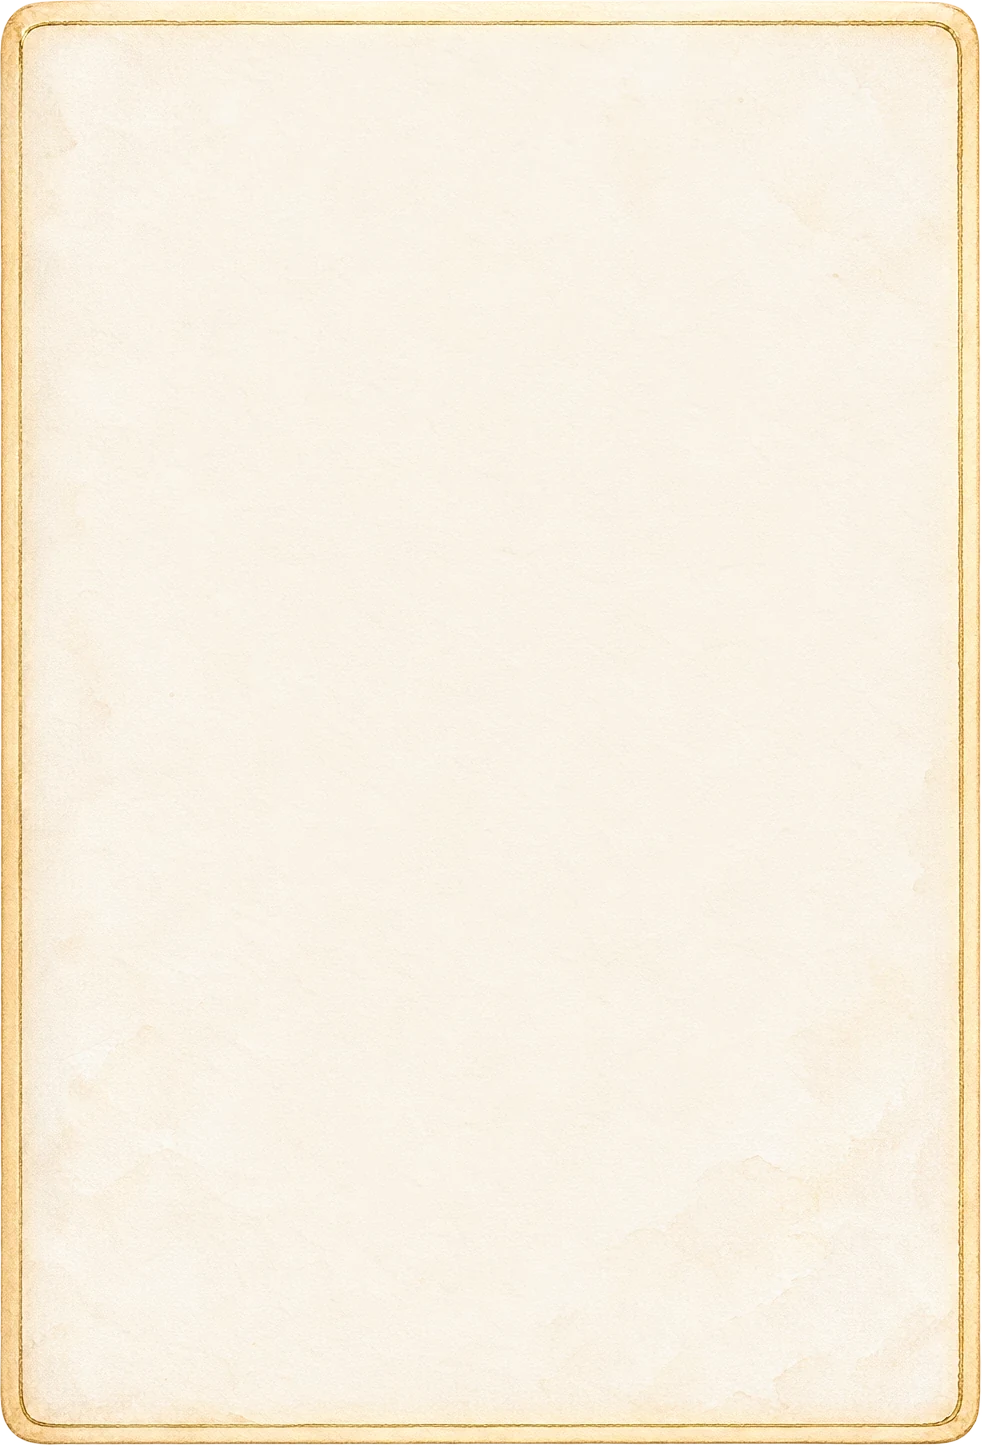
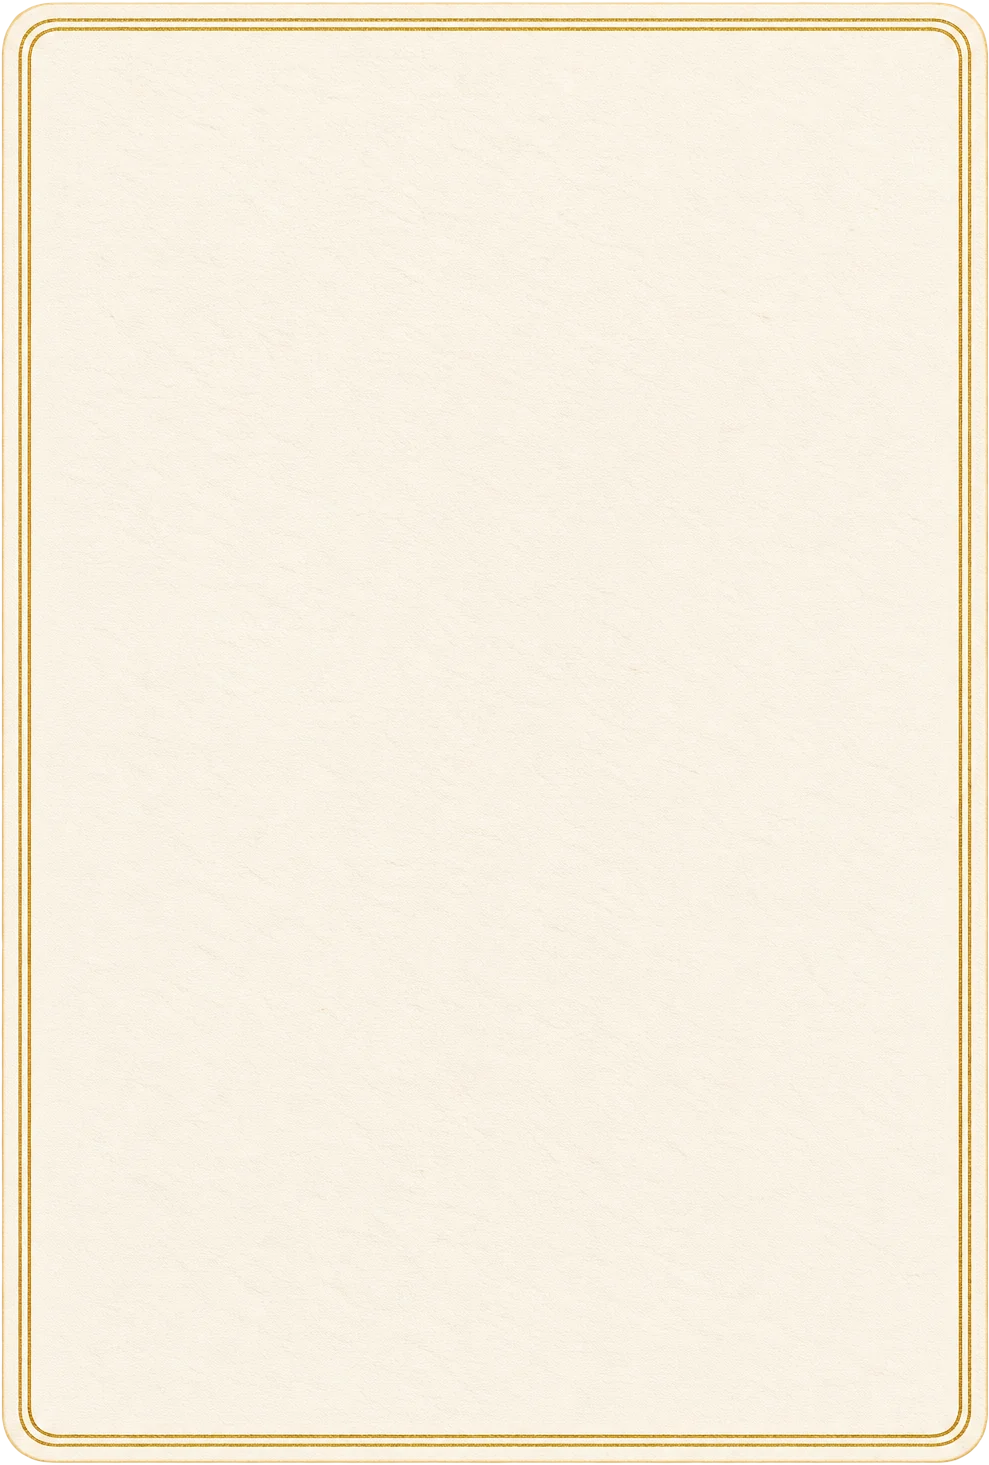
Passport: the light v2 art, a cover that covers, a blot clear of the rule
- cover.webp, cover-inside.webp and spread.webp are the regenerated light
  art. The inside of the cover is cover-inside.webp (its sprig lands on the
  outer bottom corner when the cover lies open); spread.webp is back as the
  frame around the pages (board, stacks, headbands), re-measured; pages are
  still the shared paper.webp sheet on top.
- The cover overhangs the right page at the top, bottom and fore-edge, so
  nothing of the page beneath shows while it is closed; where it lies once
  open, the inside-cover page sits on the same box.
- The blot is a little smaller and higher on the cover, with clear space
  above the bottom rule; the title moves up to match.
- A wash of cream over paper.webp keeps its grain fine at desktop size.

Changed region(s): [[0.0, 0.0, 1.0, 1.0]]

diff --git a/src/components/sections/passport/BrasiliaPassport.tsx b/src/components/sections/passport/BrasiliaPassport.tsx
@@ -19,10 +19,10 @@ import {
 } from 'framer-motion'
 import { buildBook, pageSection, sectionEntries, SECTIONS, type Chunks } from './content'
 import type { PageSpec, SectionKey } from './content'
-import { BOOK } from './assets'
+import { ASSETS, BOOK } from './assets'
 import { ease, PHASE, seg, TAB_OUT, type PassportGeometry, type Rect } from './geometry'
 import { PassportCover } from './PassportCover'
-import { EntriesFrame, EntryItem, GOLD, PageContent, Paper, pageRadius, type Side } from './Pages'
+import { EntriesFrame, EntryItem, GOLD, PageContent, Paper, type Side } from './Pages'
 
 type Lang = 'pt' | 'en'
 
@@ -344,43 +344,33 @@ export function BrasiliaPassport({
   }
 
   const tabH = Math.min(H * 0.17, 128)
-  // The book around the pages, in CSS: a light gold board cut at the spine
-  // (each half shows and hides on its own), and a thin stack of pages along
-  // each outer edge.
+  // The book around the pages — spread.webp's board, page stacks and
+  // headbands — cut at the spine so each half shows and hides on its own.
+  // Its blank pages are covered by the page sheets.
+  const imgW = BOOK.w * g.k
   const shift = spread ? 0 : g.k * BOOK.split
   const boardHalf = (side: Side): CSSProperties => {
     const from = side === 'left' ? 0 : g.k * BOOK.split
-    const to = side === 'left' ? g.split : g.k * BOOK.w
-    const spine = side === 'left' ? 'left' : 'right'
+    const to = side === 'left' ? g.k * BOOK.split : imgW
     return {
       left: from - shift,
       top: 0,
       width: to - from,
       height: g.book.h,
-      borderRadius: side === 'left' ? '1em 0 0 1em' : '0 1em 1em 0',
-      background:
-        `linear-gradient(to ${spine}, rgba(150, 110, 45, 0.28) 0%, rgba(150, 110, 45, 0) 3%), ` +
-        'linear-gradient(170deg, #F2E3BE 0%, #E9D3A1 55%, #E3C892 100%)',
-      boxShadow:
-        'inset 0 0 0 1px rgba(176, 136, 66, 0.35), 0 22px 40px -22px rgba(110, 78, 30, 0.45)',
+      background: `url(${ASSETS.spread}) ${-from}px 0 / ${imgW}px ${g.book.h}px no-repeat`,
     }
   }
-  const stack = (side: Side, r: Rect): CSSProperties => {
-    const d = side === 'left' ? -1 : 1
-    const u = Math.min(1, g.k * 1.4)
-    const lines = ['#E9DEC9', '#FBF6EC', '#E3D6BD', '#F8F2E6', '#DDCDB0']
-    return {
-      ...box(r),
-      borderRadius: pageRadius(side),
-      background: '#F6EEE0',
-      boxShadow: lines
-        .map(
-          (c, i) =>
-            `${(d * (i + 1) * 1.4 * u).toFixed(1)}px ${((i + 1) * 0.5 * u).toFixed(1)}px 0 ${c}`
-        )
-        .join(', '),
-    }
-  }
+  // A soft shadow on the table under each half (a gradient: no filter, it moves).
+  const tableShadow = (
+    <div
+      aria-hidden
+      className="pointer-events-none absolute inset-x-[3%] -bottom-[5%] h-[14%]"
+      style={{
+        background:
+          'radial-gradient(50% 50% at 50% 50%, rgba(110, 80, 35, 0.22) 0%, rgba(110, 80, 35, 0) 100%)',
+      }}
+    />
+  )
 
   return (
     <div
@@ -482,10 +472,15 @@ export function BrasiliaPassport({
         {/* Left half of the open book (spread only): shows as the cover comes down. */}
         {spread && (
           <div ref={leftHalfRef} className="absolute inset-0" style={{ visibility: 'hidden' }}>
-            <div className="pointer-events-none absolute" style={boardHalf('left')} />
-            <div className="pointer-events-none absolute" style={stack('left', g.left)} />
+            <div className="pointer-events-none absolute" style={boardHalf('left')}>
+              {tableShadow}
+            </div>
             {baseLeft && (
-              <div ref={leftRef} className="absolute" style={box(g.left)}>
+              <div
+                ref={leftRef}
+                className="absolute"
+                style={box(baseLeft.kind === 'inside' ? g.insideBox : g.left)}
+              >
                 {sheet(baseLeft, 'left', opened && !flip)}
               </div>
             )}
@@ -495,8 +490,9 @@ export function BrasiliaPassport({
         {/* Right half: lies under the closed cover — its board edge and page
             stack are the closed book's thickness. */}
         <div ref={baseRef} className="absolute inset-0" style={{ visibility: 'hidden' }}>
-          <div className="pointer-events-none absolute" style={boardHalf('right')} />
-          <div className="pointer-events-none absolute" style={stack('right', g.right)} />
+          <div className="pointer-events-none absolute" style={boardHalf('right')}>
+            {tableShadow}
+          </div>
           <div className="absolute" style={box(g.right)}>
             {sheet(baseRight, 'right', opened && !flip)}
           </div>
@@ -528,7 +524,7 @@ export function BrasiliaPassport({
           ref={coverRef}
           className="absolute"
           style={{
-            ...box(g.right),
+            ...box(g.coverBox),
             transformOrigin: 'left center',
             transformStyle: 'preserve-3d',
           }}

diff --git a/src/components/sections/passport/assets.ts b/src/components/sections/passport/assets.ts
@@ -1,14 +1,13 @@
 // Every image the Brasília passport uses, in one place (public/passport/).
 //
-//   cover.webp         cover board, both faces: light cream, double gold rule
-//                      (the painted original, its stains and vignette flattened
-//                      to an even light cream; the gold rim kept)
-//   cover-sprig.webp   one faint botanical sprig for the inside of the cover
-//                      (lifted off the painted endpaper onto transparency)
+//   cover.webp         front cover: light ivory, double thin gold rule
+//   cover-inside.webp  inside of the cover: single gold rule, one sprig in the
+//                      bottom-left (the outer corner once the cover lies open)
+//   spread.webp        the open book around the pages: gold-edged board, page
+//                      stacks, headbands at the spine (its blank pages are
+//                      covered by the page sheets)
 //   paper.webp         every page — lying flat or turning
 //   blot-mask.webp     the watercolor blot the painting shrinks into (alpha mask)
-//
-// The open book around the pages (gold board, page stacks, spine) is CSS.
 //
 // Still to come, one illustration per chapter (left page of each opener):
 //   tourism.webp, restaurants.webp, transport.webp, hotels.webp
@@ -24,21 +23,21 @@ export const PAINT_SRC = `${BASE}cerrado/paint.webp`
 export const PAINT_ASPECT = 1376 / 768
 
 /**
- * The open book, in layout units (scaled to the screen in geometry.ts): two
- * pages of 684 × 926 on a board that shows SIDE units around them (where
- * the page stacks sit), split down the middle at the spine.
+ * spread.webp measured in its own pixels: the cream area of each page, and
+ * the spine, where the image is cut into the halves that show on their own.
+ * The book's layout is scaled from these (geometry.ts) — re-measure if the
+ * image is ever re-exported at another crop.
  */
-const PAGE = { w: 684, h: 926 }
-const SIDE = 20
-const TOP = 13
-const GUTTER = 4
 export const BOOK = {
-  w: 2 * SIDE + 2 * PAGE.w + GUTTER,
-  h: 2 * TOP + PAGE.h,
-  split: SIDE + PAGE.w + GUTTER / 2,
-  left: { x: SIDE, y: TOP, ...PAGE },
-  right: { x: SIDE + PAGE.w + GUTTER, y: TOP, ...PAGE },
+  w: 1470,
+  h: 958,
+  split: 734,
+  left: { x: 54, y: 4, w: 677, h: 925 },
+  right: { x: 737, y: 4, w: 682, h: 925 },
 }
+
+/** How far the closed cover overhangs the right page (top, bottom, fore-edge). */
+export const COVER_OVERHANG = 7
 
 /** Width / height of blot-mask.webp. */
 export const BLOT_ASPECT = 760 / 483
@@ -69,7 +68,8 @@ export interface Illustration {
 
 export const ASSETS = {
   cover: passport('cover.webp'),
-  coverSprig: passport('cover-sprig.webp'),
+  coverInside: passport('cover-inside.webp'),
+  spread: passport('spread.webp'),
   paper: passport('paper.webp'),
   blotMask: `url(${passport('blot-mask.webp')})`,
   /** The sketch composited on the cover vignette, at its right. */

diff --git a/src/components/sections/passport/geometry.ts b/src/components/sections/passport/geometry.ts
@@ -1,4 +1,4 @@
-import { BOOK, PAINT_ASPECT, SLOT_ASPECT, SLOT_CORE } from './assets'
+import { BOOK, COVER_OVERHANG, PAINT_ASPECT, SLOT_ASPECT, SLOT_CORE } from './assets'
 
 // ── Scroll timeline ──────────────────────────────────────────────────────
 //
@@ -69,9 +69,13 @@ export interface PassportGeometry {
   left: Rect
   right: Rect
   page: { w: number; h: number }
+  /** The cover leaf, in book coordinates: the right page plus a little overhang. */
+  coverBox: Rect
+  /** Where the cover lies once turned open (its mirror across the hinge). */
+  insideBox: Rect
   /** Book translateX while closed, so the cover alone is centered. */
   closedShift: number
-  /** Closed cover's top-left on screen (it covers the right page exactly). */
+  /** Closed cover's top-left on screen. */
   cover: { x: number; y: number }
   /** The blot's box on the cover, in cover coordinates. */
   slot: Rect
@@ -128,17 +132,25 @@ export function passportGeometry(vw: number, vh: number): PassportGeometry {
   const bookY = NAV_H + Math.max(0, (availH - bookH) / 2)
   const left = scaleRect(BOOK.left, k, dx)
   const right = scaleRect(BOOK.right, k, dx)
-  const coverX = bookX + right.x
-  const closedShift = spread ? vw / 2 - (coverX + right.w / 2) : 0
-  const cover = { x: coverX + closedShift, y: bookY + right.y }
+  const o = COVER_OVERHANG * k
+  const coverBox = { x: right.x, y: right.y - o, w: right.w + o, h: right.h + 2 * o }
+  const insideBox = { ...coverBox, x: coverBox.x - coverBox.w }
+  const coverX = bookX + coverBox.x
+  const closedShift = spread ? vw / 2 - (coverX + coverBox.w / 2) : 0
+  const cover = { x: coverX + closedShift, y: bookY + coverBox.y }
 
   const pageW = right.w
   const pageH = right.h
-  // The blot spans ~90 % of the cover inside its gold rule, and over half
-  // its height, under the title.
-  const slotW = pageW * 0.87
+  // The blot spans ~85 % of the cover inside its gold rule and half its
+  // height: under the title, clear of the bottom rule.
+  const slotW = coverBox.w * 0.85
   const slotH = slotW / SLOT_ASPECT
-  const slot = { x: pageW * 0.5 - slotW / 2, y: pageH * 0.64 - slotH / 2, w: slotW, h: slotH }
+  const slot = {
+    x: coverBox.w * 0.5 - slotW / 2,
+    y: coverBox.h * 0.605 - slotH / 2,
+    w: slotW,
+    h: slotH,
+  }
 
   const focal = { x: artLeft + artW * 0.47, y: artTop + artH * 0.56 }
   const blotLocalW = artW * 0.5
@@ -164,6 +176,8 @@ export function passportGeometry(vw: number, vh: number): PassportGeometry {
     left,
     right,
     page: { w: pageW, h: pageH },
+    coverBox,
+    insideBox,
     closedShift,
     cover,
     slot,

diff --git a/src/components/sections/passport/Pages.tsx b/src/components/sections/passport/Pages.tsx
@@ -22,6 +22,8 @@ export const GOLD = '#C9A464'
 /** What a sheet is: a page of the book, or the inside of the cover board. */
 export type Stock = 'page' | 'board'
 
+const PAPER_WASH = 'rgba(252, 248, 240, 0.4)'
+
 /** Outer corners round, spine corners nearly square. */
 export const pageRadius = (side: Side) =>
   side === 'left' ? '0.8em 0.15em 0.15em 0.8em' : '0.15em 0.8em 0.8em 0.15em'
@@ -53,22 +55,14 @@ export const Paper = forwardRef(function Paper(
   ref: Ref<HTMLDivElement>
 ) {
   if (stock === 'board') {
-    // The inside of the cover: the cover's own board, quiet — its gold rule
-    // and one faint sprig in the outer bottom corner.
+    // The inside of the cover: quiet — a gold rule and one sprig, which sits
+    // bottom-left in the art: the outer corner once the cover lies open.
     return (
       <div
         ref={ref}
         className="absolute inset-0"
-        style={{ background: `url(${ASSETS.cover}) center / 100% 100% no-repeat` }}
+        style={{ background: `url(${ASSETS.coverInside}) center / 100% 100% no-repeat` }}
       >
-        <img
-          src={ASSETS.coverSprig}
-          alt=""
-          aria-hidden
-          draggable={false}
-          className="absolute bottom-[3%] w-[44%] opacity-50 select-none"
-          style={side === 'left' ? { left: '4%' } : { right: '4%', transform: 'scaleX(-1)' }}
-        />
         {shade && <Shade side={side} opacity={shade} />}
       </div>
     )
@@ -79,7 +73,8 @@ export const Paper = forwardRef(function Paper(
       className="absolute inset-0 overflow-hidden"
       style={{
         borderRadius: pageRadius(side),
-        background: `url(${ASSETS.paper}) center / cover`,
+        // A wash of cream over paper.webp keeps its grain fine at desktop size.
+        background: `linear-gradient(${PAPER_WASH}, ${PAPER_WASH}), url(${ASSETS.paper}) center / cover`,
         boxShadow: 'inset 0 0 0 0.5px rgba(150, 110, 60, 0.22)',
       }}
     >

diff --git a/src/components/sections/passport/PassportCover.tsx b/src/components/sections/passport/PassportCover.tsx
@@ -79,7 +79,7 @@ export function PassportCover({
 
       {/* Title, star and the cathedral sketch. */}
       <div ref={titleRef} className="absolute inset-0" style={{ opacity: 0 }}>
-        <div className="absolute inset-x-0 top-[12%] flex flex-col items-center text-center">
+        <div className="absolute inset-x-0 top-[9.5%] flex flex-col items-center text-center">
           {/* -mr cancels the tracking after the last letter, so it centers. */}
           <p className="font-sans text-forest-deep/80 -mr-[0.5em] text-[0.7em] tracking-[0.5em] uppercase">
             {t('city.passport.kicker')}
